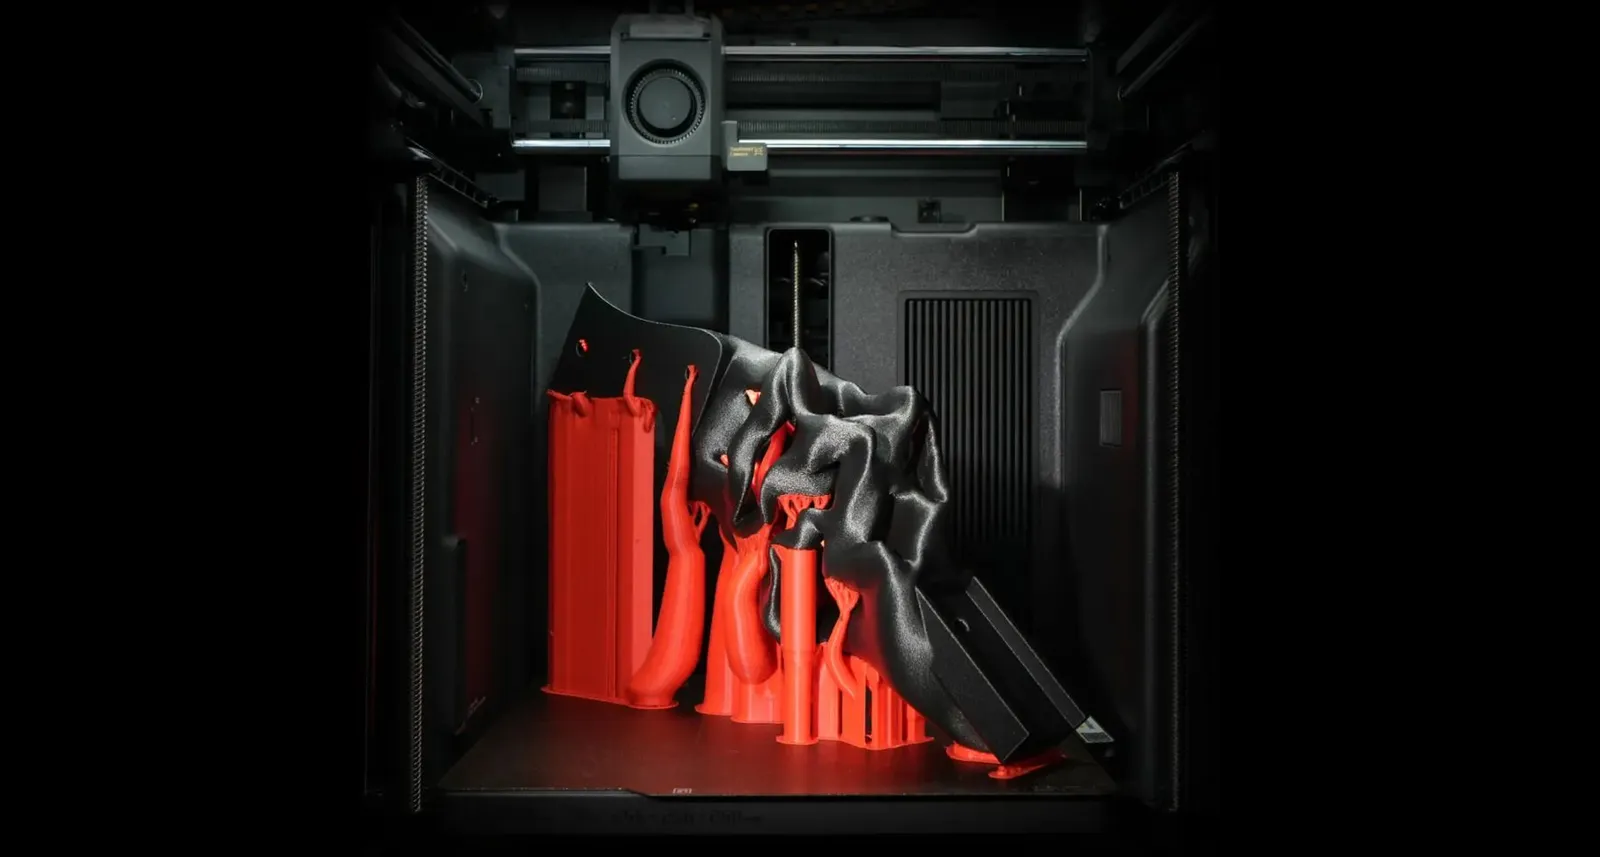
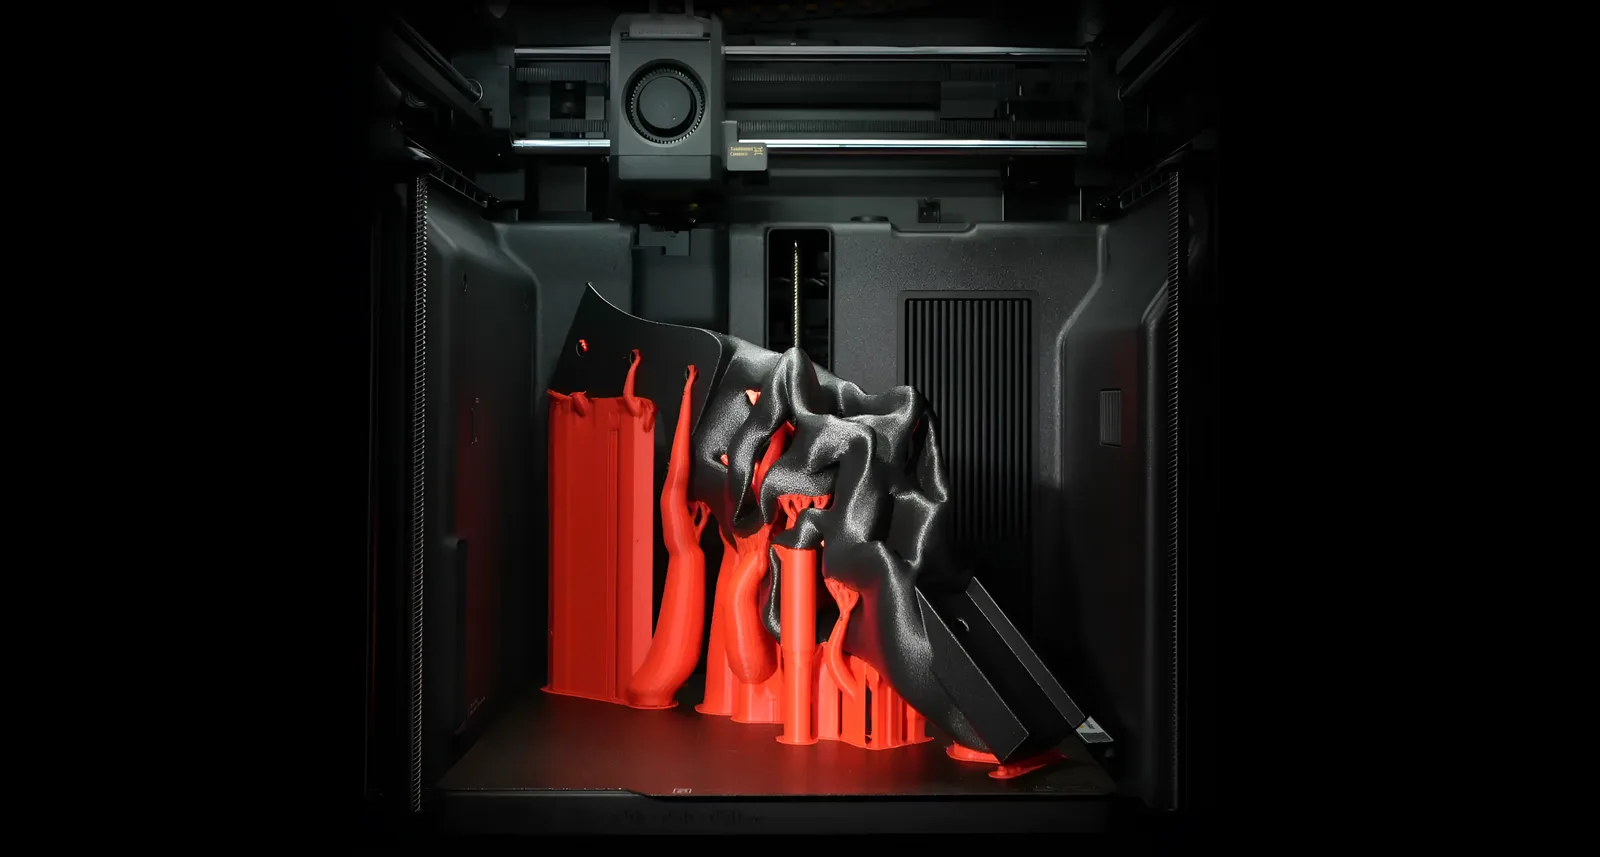
hotfix: remove leaked i18n key, sharper hero image, guard against future leaks
- Drop the broken top-of-main mobile-photo-path block in Index.tsx: the
  `home.mobile.sendPhoto`/`home.mobile.whatsapp` keys don't exist, so t()
  was rendering the raw keys, and its inline display:flex was overriding
  md:hidden and leaking the text onto desktop too.
- Move the mobile-send-photo / mobile-whatsapp-cta testids onto the real
  mobile hero buttons in both variants so verify-seo-finish still passes.
- Give variant A's mobile hero the same "Subir archivo o hacer foto"
  label used by variant B (reuses home.v2.hero.cta.mobile — already
  translated in all 8 languages) and keeps the WhatsApp secondary button.
- Add an i18n-key-leak check to verify-site.mjs: fails if any visible
  text at 390 or 1440 in either variant contains a string that equals
  a real i18n key.
- Regenerate x2d-inside from the new 4032x2160 source into jpg@2560/q85
  (166 KB) + webp at 480/960/1600/2560; add 2560w to the Hero srcSet and
  widen sizes to 70vw so desktop screens actually pick 1600 or 2560.
- The same srcSet now serves every V2 hero: Index.tsx, IntlHubPage.tsx,
  Hero.tsx all consume the shared Hero component.

Verified: `node scripts/verify-site.mjs` — 672/672 page checks, 0 errors,
SEO byte-diff 0 differences across 177 pages. `verify-seo-finish` OK.

diff --git a/src/pages/Index.tsx b/src/pages/Index.tsx
@@ -483,42 +483,6 @@ const Index = () => {
       <Header />
 
       <main id="main-content">
-        {/* ── MOBILE PHOTO PATH (section 3.1 + 3.4) ── */}
-        {/* Under 768 px: two equal big buttons so a phone-only visitor who */}
-        {/* doesn't have a file can still get somewhere useful. Rendered at */}
-        {/* the top of main so it is on the first screen above the hero. */}
-        <div
-          hidden
-          style={{ display: "none" }}
-          data-testid="mobile-photo-path"
-        >
-          <Link
-            to={designRequestUrl}
-            data-testid="mobile-send-photo"
-            style={{
-              display: "flex", alignItems: "center", justifyContent: "center", gap: 8,
-              background: "#F5A524", color: "#0F172A", fontWeight: 700, fontSize: 16,
-              padding: "14px 20px", borderRadius: 12, textDecoration: "none",
-              minHeight: 48,
-            }}
-          >
-            {t("home.mobile.sendPhoto") || "Enviar una foto"}
-          </Link>
-          <a
-            href={whatsappUrl()}
-            data-testid="mobile-whatsapp-cta"
-            onClick={() => capture("whatsapp_click", { location: "home_mobile_top", path: "/" })}
-            style={{
-              display: "flex", alignItems: "center", justifyContent: "center", gap: 8,
-              background: "#ffffff", color: "#0F172A", fontWeight: 700, fontSize: 16,
-              padding: "14px 20px", borderRadius: 12, textDecoration: "none",
-              border: "1.5px solid #0F172A", minHeight: 48,
-            }}
-          >
-            {t("home.mobile.whatsapp") || "Escribir por WhatsApp"}
-          </a>
-        </div>
-
         {/* ── HERO V1 (default / A variant) ── */}
         <div ref={heroRef} className="xp-home-v1-only">
           <DsHero
@@ -532,12 +496,14 @@ const Index = () => {
                   <svg width="22" height="22" viewBox="0 0 24 24" fill="none" stroke="currentColor" strokeWidth="2.4" strokeLinecap="round" strokeLinejoin="round" aria-hidden="true">
                     <path d="M12 16V4" /><path d="M7 9l5-5 5 5" /><path d="M4 16v4h16v-4" />
                   </svg>
-                  {t("home.hero.cta")}
+                  <span className="ds-hero-v2-desktop-only">{t("home.hero.cta")}</span>
+                  <span className="ds-v2-mobile-only">{t("home.v2.hero.cta.mobile")}</span>
                 </>
               ),
               onClick: () => openFilePicker("hero"),
+              testid: "mobile-send-photo",
             }}
-            secondaryButton={{ label: t("home.hero.whatsapp"), href: whatsappUrl() }}
+            secondaryButton={{ label: t("home.hero.whatsapp"), href: whatsappUrl(), testid: "mobile-whatsapp-cta" }}
             sendLinkButton={{ label: t("home.hero.sendlink"), onClick: handleSendLink }}
             reassuranceItems={t("home.hero.reassurance").split(" · ")}
             noFileLink={{ label: t("home.hero.nofile"), onClick: handleNoFile }}
@@ -575,8 +541,9 @@ const Index = () => {
                 </>
               ),
               onClick: () => openFilePicker("hero"),
+              testid: "mobile-send-photo",
             }}
-            secondaryButton={{ label: t("home.hero.whatsapp"), href: whatsappUrl() }}
+            secondaryButton={{ label: t("home.hero.whatsapp"), href: whatsappUrl(), testid: "mobile-whatsapp-cta" }}
             sendLinkButton={{ label: t("home.hero.sendlink"), onClick: handleSendLink }}
             reassuranceItems={[t("home.v2.hero.reassurance")]}
             noFileLink={{

diff --git a/src/components/ds/Hero.tsx b/src/components/ds/Hero.tsx
@@ -7,9 +7,9 @@ interface HeroProps {
   paragraph: string;
   /** Mobile-only paragraph override (shown instead of paragraph on ≤767px) */
   mobileParagraph?: string;
-  primaryButton?: { label: ReactNode; onClick: () => void };
+  primaryButton?: { label: ReactNode; onClick: () => void; testid?: string };
   /** Outlined secondary button (WhatsApp, etc.) — links to href */
-  secondaryButton?: { label: string; href: string };
+  secondaryButton?: { label: string; href: string; testid?: string };
   /** Small text link below buttons (e.g. "send me the link") */
   sendLinkButton?: { label: string; onClick: () => void };
   reassuranceItems?: string[];
@@ -106,6 +106,7 @@ function CenteredHero({
             <button
               type="button"
               data-hero-cta="true"
+              data-testid={primaryButton.testid}
               onClick={primaryButton.onClick}
               className="ds-btn-primary"
               style={{
@@ -123,6 +124,7 @@ function CenteredHero({
           {secondaryButton && (
             <a
               href={secondaryButton.href}
+              data-testid={secondaryButton.testid}
               target="_blank"
               rel="noopener noreferrer"
               style={{
@@ -346,6 +348,7 @@ function SplitImageHero({
           <button
             type="button"
             data-hero-cta="true"
+            data-testid={primaryButton?.testid}
             onClick={primaryButton?.onClick}
             className="ds-btn-primary"
             style={{
@@ -396,6 +399,7 @@ function SplitImageHero({
           {secondaryButton && (
             <a
               href={secondaryButton.href}
+              data-testid={secondaryButton.testid}
               className="ds-v2-mobile-only"
               style={{
                 display: 'flex',
@@ -486,8 +490,8 @@ function SplitImageHero({
             />
             <picture>
               <source
-                srcSet="/img/x2d/x2d-inside-480.webp 480w, /img/x2d/x2d-inside-960.webp 960w, /img/x2d/x2d-inside-1600.webp 1600w"
-                sizes="(max-width: 900px) 100vw, 50vw"
+                srcSet="/img/x2d/x2d-inside-480.webp 480w, /img/x2d/x2d-inside-960.webp 960w, /img/x2d/x2d-inside-1600.webp 1600w, /img/x2d/x2d-inside-2560.webp 2560w"
+                sizes="(max-width: 900px) 100vw, 70vw"
                 type="image/webp"
               />
               <img
